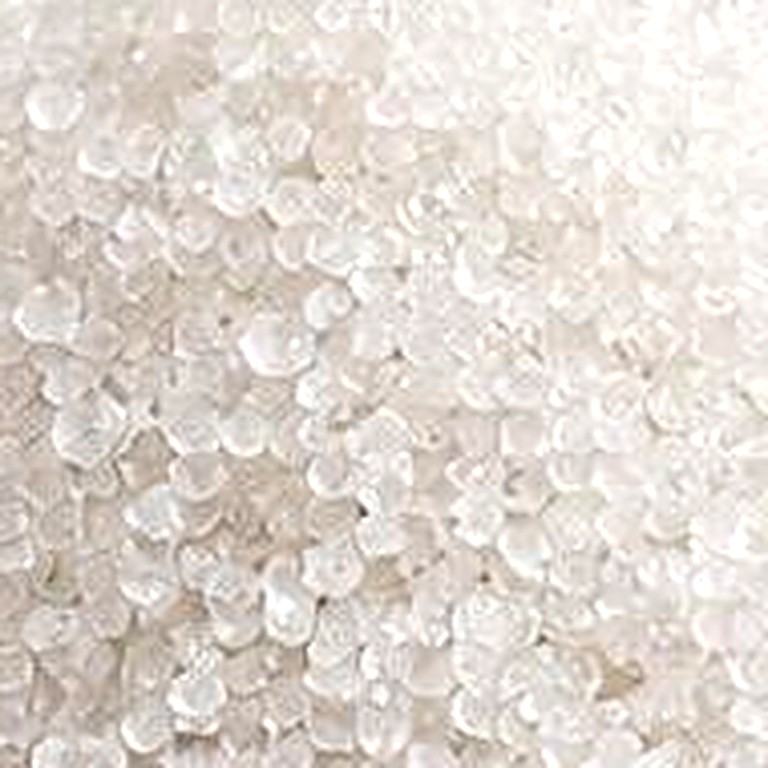
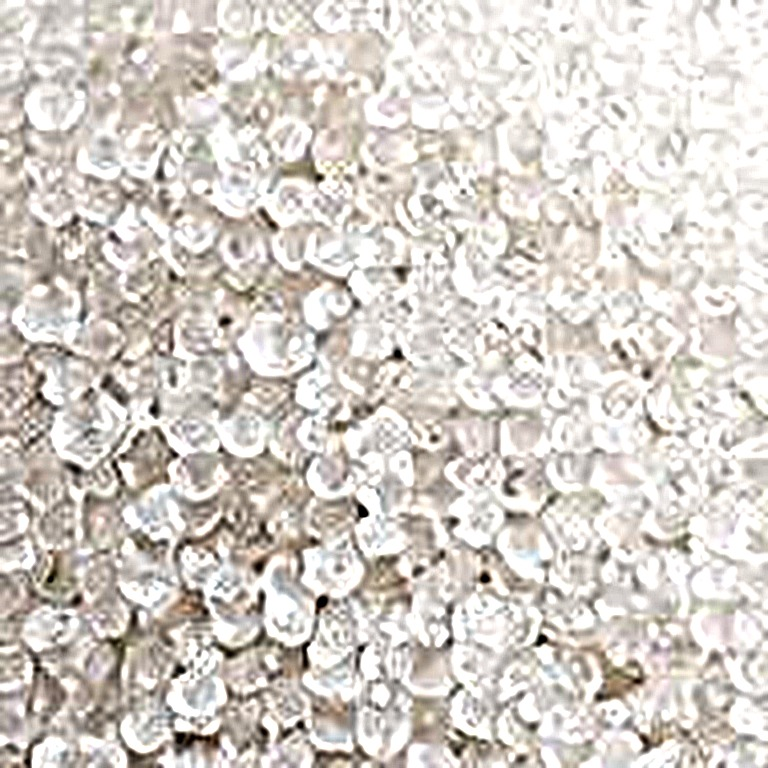
feat(admin): frame category images with zoom and drag, crisper sugar image
- Admin > Categories edit dialog: after uploading a category image, drag it
  in a large circle and zoom so only the product shows, with live previews
  of the category strip and homepage circle; warns on images under 600 px
- Saved per category as imageFit { zoom, x, y } in the existing payload
  (no migration) and applied on the category strip, homepage circles,
  category cards and admin cards
- Sharper built-in sugar close-up with clearer crystal edges

diff --git a/src/routes/admin.categories.tsx b/src/routes/admin.categories.tsx
@@ -5,7 +5,9 @@ import { Layers, Package, Plus, Tags, Trash2, Pencil, ImagePlus } from "lucide-r
 import { PanelLayout } from "@/components/panel/PanelLayout";
 import { DataTable, Panel, StatCard, StatusBadge } from "@/components/panel/widgets";
 import { adminNav } from "@/lib/panel-nav";
-import { storeCategorySeed, type StoreCategory } from "@/lib/data";
+import { defaultCategoryImageFit, normalizeCategoryImageFit, storeCategorySeed, type CategoryImageFit, type StoreCategory } from "@/lib/data";
+import { CategoryImageFitter } from "@/components/panel/CategoryImageFitter";
+import { CategoryImage } from "@/components/site/CategoryImage";
 import { useApp } from "@/lib/store";
 import { Button } from "@/components/ui/button";
 import { Input } from "@/components/ui/input";
@@ -27,19 +29,25 @@ function AdminCategories() {
   const [editing, setEditing] = useState<StoreCategory | null>(null);
   const [imageUploading, setImageUploading] = useState(false);
   const [saving, setSaving] = useState(false);
-  const [form, setForm] = useState({ name: "", tagline: "", subs: "", image: "", enabled: true });
+  const [form, setForm] = useState<{ name: string; tagline: string; subs: string; image: string; imageFit: CategoryImageFit; enabled: boolean }>({ name: "", tagline: "", subs: "", image: "", imageFit: defaultCategoryImageFit, enabled: true });
   const ordered = useMemo(() => [...categories].sort((a, b) => a.order - b.order), [categories]);
   const counts = useMemo(() => products.reduce<Record<string, number>>((m, p) => ({ ...m, [p.category]: (m[p.category] ?? 0) + 1 }), {}), [products]);
 
-  const startAdd = () => { setEditing(null); setForm({ name: "", tagline: "", subs: "", image: "", enabled: true }); setOpen(true); };
-  const startEdit = (category: StoreCategory) => { setEditing(category); setForm({ name: category.name, tagline: category.tagline, subs: category.grades.join(", "), image: category.image, enabled: category.enabled }); setOpen(true); };
+  const startAdd = () => { setEditing(null); setForm({ name: "", tagline: "", subs: "", image: "", imageFit: defaultCategoryImageFit, enabled: true }); setOpen(true); };
+  const startEdit = (category: StoreCategory) => { setEditing(category); setForm({ name: category.name, tagline: category.tagline, subs: category.grades.join(", "), image: category.image, imageFit: normalizeCategoryImageFit(category.imageFit), enabled: category.enabled }); setOpen(true); };
   const chooseImage = async (event: ChangeEvent<HTMLInputElement>) => {
     const file = event.target.files?.[0];
     if (!file) return;
     setImageUploading(true);
     try {
       const url = await uploadCatalogImage(file, "categories");
-      setForm((current) => ({ ...current, image: url }));
+      setForm((current) => ({ ...current, image: url, imageFit: defaultCategoryImageFit }));
+      const probe = new Image();
+      probe.onload = () => {
+        if (Math.min(probe.naturalWidth, probe.naturalHeight) < 600)
+          toast.warning("This image is small", { description: `It is ${probe.naturalWidth} × ${probe.naturalHeight} px. Use at least 800 × 800 px so it stays sharp in the category circle.` });
+      };
+      probe.src = url;
     } catch (error) {
       toast.error("Could not upload this category image", { description: error instanceof Error ? error.message : "Try again." });
     } finally {
@@ -56,7 +64,7 @@ function AdminCategories() {
     if (!image) { toast.error("Choose an image for this category"); return; }
     setSaving(true);
     try {
-      const patch = { name, tagline: form.tagline.trim() || `${name} products`, grades, image, enabled: form.enabled };
+      const patch = { name, tagline: form.tagline.trim() || `${name} products`, grades, image, imageFit: normalizeCategoryImageFit(form.imageFit), enabled: form.enabled };
       const saved = editing ? await updateCategory(editing.id, patch) : await addCategory(patch);
       if (!saved) return;
       toast.success(`Category “${name}” ${editing ? "updated" : "created"}`);
@@ -86,7 +94,7 @@ function AdminCategories() {
               <div className="grid gap-1.5"><Label>Category Name</Label><Input value={form.name} onChange={(e) => setForm((f) => ({ ...f, name: e.target.value }))} /></div>
               <div className="grid gap-1.5"><Label>Description</Label><Input value={form.tagline} onChange={(e) => setForm((f) => ({ ...f, tagline: e.target.value }))} /></div>
               <div className="grid gap-1.5"><Label>Subcategories (comma separated)</Label><Textarea placeholder="Raw Rice, Steam Rice" value={form.subs} onChange={(e) => setForm((f) => ({ ...f, subs: e.target.value }))} /></div>
-              <div className="grid gap-2"><Label>Category image</Label><label className={`flex items-center justify-center gap-2 rounded-md border border-dashed border-gold/70 p-3 text-sm font-semibold text-navy ${imageUploading ? "cursor-wait opacity-60" : "cursor-pointer hover:bg-ivory"}`}><ImagePlus className="h-4 w-4" /> {imageUploading ? "Uploading…" : form.image ? "Change image" : "Browse local files"}<input className="sr-only" type="file" accept="image/jpeg,image/png,image/webp,image/gif,image/avif" disabled={imageUploading || saving} onChange={(event) => void chooseImage(event)} /></label>{form.image && <img src={form.image} alt="Category preview" className="h-36 w-full rounded-md border object-cover" />}</div>
+              <div className="grid gap-2"><Label>Category image</Label><label className={`flex items-center justify-center gap-2 rounded-md border border-dashed border-gold/70 p-3 text-sm font-semibold text-navy ${imageUploading ? "cursor-wait opacity-60" : "cursor-pointer hover:bg-ivory"}`}><ImagePlus className="h-4 w-4" /> {imageUploading ? "Uploading…" : form.image ? "Change image" : "Browse local files"}<input className="sr-only" type="file" accept="image/jpeg,image/png,image/webp,image/gif,image/avif" disabled={imageUploading || saving} onChange={(event) => void chooseImage(event)} /></label>{form.image && <CategoryImageFitter src={form.image} fit={form.imageFit} onChange={(imageFit) => setForm((f) => ({ ...f, imageFit }))} />}</div>
               <label className="flex items-center gap-2 text-sm"><input type="checkbox" checked={form.enabled} onChange={(e) => setForm((f) => ({ ...f, enabled: e.target.checked }))} /> Show on storefront</label>
             </div>
             <DialogFooter><Button variant="outline" disabled={saving || imageUploading} onClick={() => setOpen(false)}>Cancel</Button><Button className="bg-navy text-white hover:bg-navy/90" disabled={saving || imageUploading} onClick={() => void save()}>{saving ? "Saving…" : "Save Category"}</Button></DialogFooter>
@@ -94,7 +102,7 @@ function AdminCategories() {
         </Dialog>
       </div>
       <div className="mb-6 grid gap-4 sm:grid-cols-2 xl:grid-cols-4">
-        {ordered.map((c) => <div key={c.id} className="overflow-hidden rounded-lg border border-border bg-card shadow-card"><img src={c.image} alt={c.name} className="h-36 w-full object-cover" /><div className="p-4"><div className="flex items-start justify-between gap-2"><div><p className="font-bold text-navy">{c.name}</p><p className="text-xs text-slate">{c.grades.length} subcategories</p></div><StatusBadge status={c.enabled ? "Active" : "Hidden"} /></div><p className="mt-2 text-2xl font-bold text-navy">{counts[c.name] ?? 0}</p><p className="text-xs text-slate">products</p><p className="mt-2 text-xs text-slate">{c.grades.join(" · ")}</p><div className="mt-3 flex gap-2"><Button size="sm" variant="outline" onClick={() => startEdit(c)}><Pencil className="mr-1 h-3.5 w-3.5" /> Edit</Button><AlertDialog><AlertDialogTrigger asChild><Button size="sm" variant="outline" className="text-danger hover:text-danger"><Trash2 className="mr-1 h-3.5 w-3.5" /> Delete</Button></AlertDialogTrigger><AlertDialogContent><AlertDialogHeader><AlertDialogTitle>Delete “{c.name}”?</AlertDialogTitle><AlertDialogDescription>Products assigned to this category are retained but may no longer appear in storefront category filters.</AlertDialogDescription></AlertDialogHeader><AlertDialogFooter><AlertDialogCancel>Cancel</AlertDialogCancel><AlertDialogAction onClick={async () => { if (await deleteCategory(c.id)) toast.success(`Category “${c.name}” deleted`); }}>Delete</AlertDialogAction></AlertDialogFooter></AlertDialogContent></AlertDialog></div></div></div>)}
+        {ordered.map((c) => <div key={c.id} className="overflow-hidden rounded-lg border border-border bg-card shadow-card"><CategoryImage src={c.image} alt={c.name} fit={c.imageFit} className="h-36" /><div className="p-4"><div className="flex items-start justify-between gap-2"><div><p className="font-bold text-navy">{c.name}</p><p className="text-xs text-slate">{c.grades.length} subcategories</p></div><StatusBadge status={c.enabled ? "Active" : "Hidden"} /></div><p className="mt-2 text-2xl font-bold text-navy">{counts[c.name] ?? 0}</p><p className="text-xs text-slate">products</p><p className="mt-2 text-xs text-slate">{c.grades.join(" · ")}</p><div className="mt-3 flex gap-2"><Button size="sm" variant="outline" onClick={() => startEdit(c)}><Pencil className="mr-1 h-3.5 w-3.5" /> Edit</Button><AlertDialog><AlertDialogTrigger asChild><Button size="sm" variant="outline" className="text-danger hover:text-danger"><Trash2 className="mr-1 h-3.5 w-3.5" /> Delete</Button></AlertDialogTrigger><AlertDialogContent><AlertDialogHeader><AlertDialogTitle>Delete “{c.name}”?</AlertDialogTitle><AlertDialogDescription>Products assigned to this category are retained but may no longer appear in storefront category filters.</AlertDialogDescription></AlertDialogHeader><AlertDialogFooter><AlertDialogCancel>Cancel</AlertDialogCancel><AlertDialogAction onClick={async () => { if (await deleteCategory(c.id)) toast.success(`Category “${c.name}” deleted`); }}>Delete</AlertDialogAction></AlertDialogFooter></AlertDialogContent></AlertDialog></div></div></div>)}
       </div>
       <Panel title="All Categories"><DataTable columns={["Category", "Subcategories", "Products", "Visibility"]} rows={ordered.map((c) => [<span className="font-semibold text-navy">{c.name}</span>, <span className="text-xs text-slate">{c.grades.join(", ")}</span>, counts[c.name] ?? 0, <StatusBadge status={c.enabled ? "Active" : "Hidden"} />])} /></Panel>
       <p className="mt-2 text-xs text-slate">Category and product counts reflect the connected Supabase catalog.</p>

diff --git a/src/components/panel/CategoryImageFitter.tsx b/src/components/panel/CategoryImageFitter.tsx
@@ -1,0 +1,124 @@
+import { useEffect, useRef, useState, type PointerEvent } from "react";
+import { Move, RotateCcw, ZoomIn } from "lucide-react";
+import { CategoryImage } from "@/components/site/CategoryImage";
+import { Button } from "@/components/ui/button";
+import { defaultCategoryImageFit, normalizeCategoryImageFit, type CategoryImageFit } from "@/lib/data";
+
+/**
+ * Lets the admin frame a category image for the round storefront badges: drag the big circle to
+ * choose what stays in view, zoom in so the product fills it, and check the live previews of
+ * the category strip and homepage circle before saving.
+ */
+export function CategoryImageFitter({
+  src,
+  fit,
+  onChange,
+}: {
+  src: string;
+  fit: CategoryImageFit | undefined;
+  onChange: (fit: CategoryImageFit) => void;
+}) {
+  const value = normalizeCategoryImageFit(fit);
+  const drag = useRef<{ x: number; y: number; fit: CategoryImageFit; size: number } | null>(null);
+  // Width ÷ height of the photo: decides how far it can slide inside the square frame.
+  const [aspect, setAspect] = useState(1);
+  useEffect(() => {
+    const probe = new Image();
+    probe.onload = () => setAspect(probe.naturalWidth / Math.max(1, probe.naturalHeight) || 1);
+    probe.src = src;
+  }, [src]);
+  // Overflow (in frame widths) the photo has on each axis once covered and zoomed.
+  const spareX = value.zoom * Math.max(1, aspect) - 1;
+  const spareY = value.zoom * Math.max(1, 1 / aspect) - 1;
+  const canMove = spareX > 0.01 || spareY > 0.01;
+
+  const onPointerDown = (event: PointerEvent<HTMLDivElement>) => {
+    event.currentTarget.setPointerCapture(event.pointerId);
+    drag.current = { x: event.clientX, y: event.clientY, fit: value, size: event.currentTarget.clientWidth };
+  };
+  const onPointerMove = (event: PointerEvent<HTMLDivElement>) => {
+    const start = drag.current;
+    if (!start) return;
+    // Dragging the photo right brings its left side into view, so the focus point moves left.
+    // A 100 % change in focus slides the photo by its whole overflow on that axis.
+    const sx = start.fit.zoom * Math.max(1, aspect) - 1;
+    const sy = start.fit.zoom * Math.max(1, 1 / aspect) - 1;
+    onChange(
+      normalizeCategoryImageFit({
+        zoom: start.fit.zoom,
+        x: sx > 0.01 ? start.fit.x - ((event.clientX - start.x) / (start.size * sx)) * 100 : start.fit.x,
+        y: sy > 0.01 ? start.fit.y - ((event.clientY - start.y) / (start.size * sy)) * 100 : start.fit.y,
+      }),
+    );
+  };
+  const endDrag = () => {
+    drag.current = null;
+  };
+
+  return (
+    <div className="grid gap-3 rounded-md border border-border bg-ivory/50 p-3">
+      <div className="flex flex-wrap items-center gap-4">
+        <div
+          role="img"
+          aria-label="Drag to position the category image"
+          onPointerDown={onPointerDown}
+          onPointerMove={onPointerMove}
+          onPointerUp={endDrag}
+          onPointerCancel={endDrag}
+          className="relative h-40 w-40 shrink-0 cursor-grab touch-none overflow-hidden rounded-full border-4 border-gold/60 bg-card shadow-card active:cursor-grabbing"
+        >
+          <CategoryImage src={src} fit={value} loading="eager" />
+          <span className="pointer-events-none absolute inset-x-0 bottom-2 mx-auto flex w-max items-center gap-1 rounded-full bg-midnight/60 px-2 py-0.5 text-[10px] font-semibold text-white">
+            <Move className="h-3 w-3" /> {canMove ? "Drag" : "Zoom in to move"}
+          </span>
+        </div>
+
+        <div className="grid gap-2 text-center">
+          <p className="text-[11px] font-semibold uppercase tracking-wide text-slate">Storefront preview</p>
+          <div className="flex items-end gap-4">
+            <div className="grid justify-items-center gap-1">
+              <span className="block h-16 w-16 overflow-hidden rounded-full border-2 border-stone-200 bg-card">
+                <CategoryImage src={src} fit={value} loading="eager" />
+              </span>
+              <span className="text-[10px] text-slate">Category strip</span>
+            </div>
+            <div className="grid justify-items-center gap-1">
+              <span className="block h-24 w-24 overflow-hidden rounded-full bg-ivory ring-4 ring-ivory">
+                <CategoryImage src={src} fit={value} loading="eager" />
+              </span>
+              <span className="text-[10px] text-slate">Homepage</span>
+            </div>
+          </div>
+        </div>
+      </div>
+
+      <label className="grid gap-1 text-xs font-semibold text-navy">
+        <span className="flex items-center justify-between">
+          <span className="flex items-center gap-1">
+            <ZoomIn className="h-3.5 w-3.5" /> Zoom
+          </span>
+          <span className="tabular-nums text-slate">{value.zoom.toFixed(2)}×</span>
+        </span>
+        <input
+          type="range"
+          min={1}
+          max={3}
+          step={0.05}
+          value={value.zoom}
+          onChange={(event) => onChange({ ...value, zoom: Number(event.target.value) })}
+          className="w-full accent-[var(--navy)]"
+          aria-label="Zoom category image"
+        />
+      </label>
+
+      <div className="flex flex-wrap items-center justify-between gap-2">
+        <p className="text-[11px] leading-snug text-slate">
+          Best results: a square photo (at least 800 × 800 px) where the product fills the frame. Drag and zoom until only the product shows.
+        </p>
+        <Button type="button" size="sm" variant="outline" onClick={() => onChange(defaultCategoryImageFit)}>
+          <RotateCcw className="mr-1 h-3.5 w-3.5" /> Reset
+        </Button>
+      </div>
+    </div>
+  );
+}

diff --git a/src/routes/index.tsx b/src/routes/index.tsx
@@ -1,4 +1,5 @@
 import { useState, type FormEvent } from "react";
+import { CategoryImage } from "@/components/site/CategoryImage";
 import { createFileRoute, Link, useNavigate } from "@tanstack/react-router";
 import { ArrowRight } from "lucide-react";
 import { SiteLayout } from "@/components/site/SiteLayout";
@@ -93,12 +94,12 @@ function Index() {
                 className="group flex min-w-0 flex-col items-center rounded-lg border border-border bg-card px-2 py-4 text-center shadow-card transition-all hover:-translate-y-1 hover:border-gold hover:shadow-elevated sm:px-5 sm:py-7"
               >
                 <span className="block aspect-square w-full max-w-28 overflow-hidden rounded-full bg-ivory ring-4 ring-ivory sm:max-w-40">
-                  <img
+                  <CategoryImage
                     src={category.image || `/categories/${slug}.jpg`}
                     alt={t(category.name)}
+                    fit={category.imageFit}
                     width={640}
                     height={640}
-                    loading="lazy"
                     onError={(e) => {
                       const cat = slug.toLowerCase();
                       (e.currentTarget as HTMLImageElement).src =
@@ -108,7 +109,7 @@ function Index() {
                           ? "/categories/oil.jpg"
                           : "/categories/rice.jpg";
                     }}
-                    className="h-full w-full object-cover transition-transform duration-500 group-hover:scale-105"
+                    className="transition-transform duration-500 group-hover:scale-105"
                   />
                 </span>
                 <span className="mt-3 text-base font-bold text-navy sm:text-xl">{category.name}</span>

diff --git a/src/components/site/FlipkartCategoryBar.tsx b/src/components/site/FlipkartCategoryBar.tsx
@@ -14,6 +14,7 @@ import { useVisibleCategories } from "@/components/site/CategoryCards";
 import { categorySlug } from "@/lib/category-tree";
 import type { StoreCategory } from "@/lib/data";
 import { cn } from "@/lib/utils";
+import { CategoryImage } from "@/components/site/CategoryImage";
 
 /** URL slug used by /categories/$slug for a store category ("Cooking Oil" lives at /categories/oil). */
 function storeCategoryRouteSlug(name: string) {
@@ -105,7 +106,7 @@ export function FlipkartCategoryBar({
           {categories.map((c) => {
             const on = isActive(c);
             const body = (
-              <BadgeBody label={c.name} image={c.image} Icon={iconFor(c.name)} active={on} />
+              <BadgeBody label={c.name} image={c.image} fit={c.imageFit} Icon={iconFor(c.name)} active={on} />
             );
             return (
               <li key={c.id} className="shrink-0">
@@ -140,11 +141,13 @@ export function FlipkartCategoryBar({
 function BadgeBody({
   label,
   image,
+  fit,
   Icon,
   active,
 }: {
   label: string;
   image?: string;
+  fit?: StoreCategory["imageFit"];
   Icon: LucideIcon;
   active: boolean;
 }) {
@@ -162,14 +165,13 @@ function BadgeBody({
         )}
       >
         {showImage ? (
-          <img
+          <CategoryImage
             src={image}
-            alt=""
-            loading="lazy"
+            fit={fit}
             width={80}
             height={80}
             onError={() => setBroken(true)}
-            className="h-full w-full object-cover brightness-105 contrast-105 transition-transform duration-300 group-hover:scale-110"
+            className="transition-transform duration-300 group-hover:scale-110"
           />
         ) : (
           <Icon

diff --git a/src/components/site/CategoryCards.tsx b/src/components/site/CategoryCards.tsx
@@ -3,6 +3,7 @@ import { ArrowRight } from "lucide-react";
 import { isStorefrontProduct, type StoreCategory } from "@/lib/data";
 import { categorySlug } from "@/lib/category-tree";
 import { useApp } from "@/lib/store";
+import { CategoryImage } from "@/components/site/CategoryImage";
 
 /** Enabled storefront categories in admin-defined display order. */
 export function useVisibleCategories(): StoreCategory[] {
@@ -65,16 +66,16 @@ function CardBody({ c, countLabel }: { c: StoreCategory; countLabel: string }) {
   return (
     <>
       <div className="relative overflow-hidden bg-ivory">
-        <img
+        <CategoryImage
           src={c.image || `/categories/${c.name.toLowerCase()}.jpg`}
           alt={`${c.name} category`}
-          loading="lazy"
+          fit={c.imageFit}
           width={800}
           height={800}
           onError={(e) => {
             (e.currentTarget as HTMLImageElement).src = `/categories/${c.name.toLowerCase()}.jpg`;
           }}
-          className="aspect-[4/3] w-full object-cover transition-transform duration-500 group-hover:scale-105 sm:aspect-square"
+          className="aspect-[4/3] transition-transform duration-500 group-hover:scale-105 sm:aspect-square"
         />
         <span className="absolute inset-x-0 bottom-0 h-1/2 bg-gradient-to-t from-midnight/70 to-transparent" />
         <span className="absolute bottom-2 left-3 rounded-full bg-gold px-2.5 py-1 text-[10px] font-bold text-midnight sm:bottom-3 sm:left-4 sm:text-[11px]">

diff --git a/src/components/site/CategoryImage.tsx b/src/components/site/CategoryImage.tsx
@@ -1,0 +1,47 @@
+import type { ReactEventHandler } from "react";
+import { normalizeCategoryImageFit, type CategoryImageFit } from "@/lib/data";
+import { cn } from "@/lib/utils";
+
+/**
+ * A category image cropped to its container (circle or card) using the admin's saved fit:
+ * the focus point is kept in view and the zoom scales around it. The outer span clips, so
+ * callers can add hover effects on `className` without fighting the fit transform.
+ */
+export function CategoryImage({
+  src,
+  alt = "",
+  fit,
+  className,
+  imgClassName,
+  width,
+  height,
+  loading = "lazy",
+  onError,
+}: {
+  src: string;
+  alt?: string;
+  fit?: Partial<CategoryImageFit> | undefined;
+  className?: string;
+  imgClassName?: string;
+  width?: number;
+  height?: number;
+  loading?: "lazy" | "eager";
+  onError?: ReactEventHandler<HTMLImageElement>;
+}) {
+  const { zoom, x, y } = normalizeCategoryImageFit(fit);
+  return (
+    <span className={cn("block h-full w-full overflow-hidden", className)}>
+      <img
+        src={src}
+        alt={alt}
+        loading={loading}
+        width={width}
+        height={height}
+        onError={onError}
+        draggable={false}
+        style={{ objectPosition: `${x}% ${y}%`, transform: `scale(${zoom})`, transformOrigin: `${x}% ${y}%` }}
+        className={cn("h-full w-full select-none object-cover", imgClassName)}
+      />
+    </span>
+  );
+}

diff --git a/src/lib/data.ts b/src/lib/data.ts
@@ -129,7 +129,26 @@ export type StoreCategory = {
   grades: string[];
   enabled: boolean;
   order: number;
+  /** How the image sits in the round category badges and cards (set in Admin → Categories). */
+  imageFit?: CategoryImageFit;
 };
+
+/** Zoom (1 = fill) and focus point (0–100 % from left / top) for a category image. */
+export type CategoryImageFit = { zoom: number; x: number; y: number };
+
+export const defaultCategoryImageFit: CategoryImageFit = { zoom: 1, x: 50, y: 50 };
+
+export function normalizeCategoryImageFit(fit: Partial<CategoryImageFit> | undefined | null): CategoryImageFit {
+  const clamp = (n: unknown, lo: number, hi: number, fallback: number) => {
+    const v = Number(n);
+    return Number.isFinite(v) ? Math.round(Math.min(hi, Math.max(lo, v)) * 100) / 100 : fallback;
+  };
+  return {
+    zoom: clamp(fit?.zoom, 1, 3, 1),
+    x: clamp(fit?.x, 0, 100, 50),
+    y: clamp(fit?.y, 0, 100, 50),
+  };
+}
 
 export const storeCategorySeed: StoreCategory[] = [
   { id: "C1", name: "Rice", tagline: "Raw, steam & premium grades", image: premiumRiceCategoryImg, grades: ["Raw Rice", "Steam Rice", "Premium Rice"], enabled: true, order: 1 },
